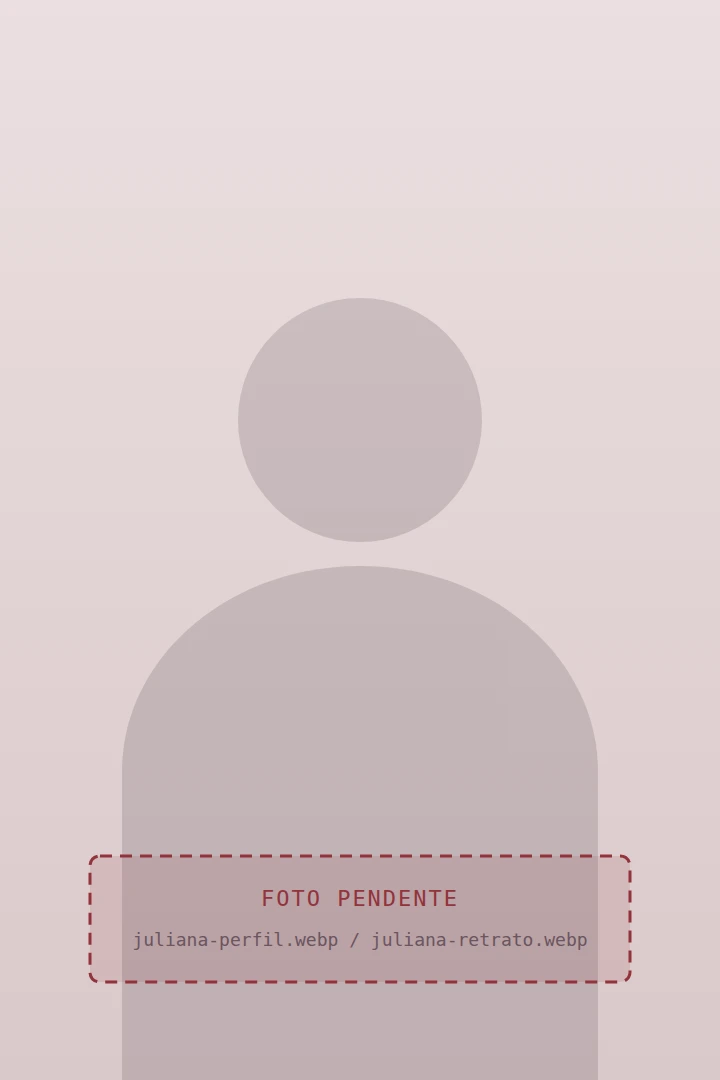
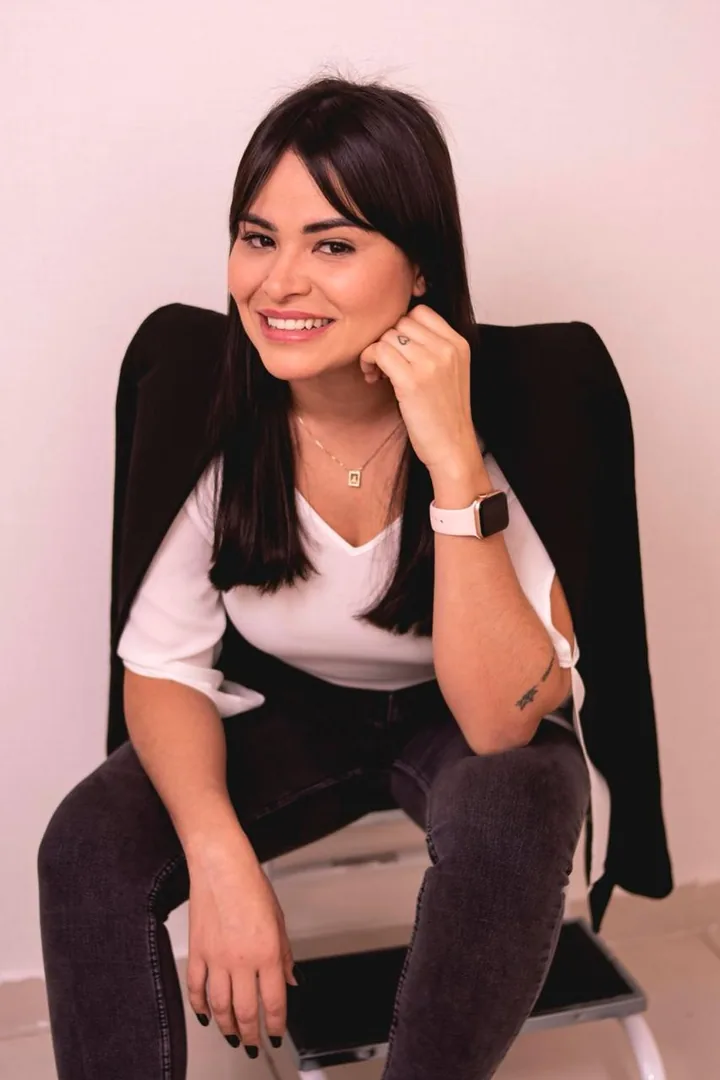
Substitui as imagens placeholder pelas fotos reais
Capa do e-book no hero, foto da Juliana com as filhas na seção
"O que tem dentro" (recorte 4:5, para não cortar as meninas), retrato
na seção "Quem escreveu" e recorte largo da foto em família como
preview de compartilhamento (og:image). Todas em WebP, no tamanho em
que a página exibe.

O README deixa de listar as imagens como pendência e documenta os
tamanhos atuais.

Claude-Session: https://claude.ai/code/session_01BEaBxMpb5xnvFpbaSUCbPb

diff --git a/site/index.html b/site/index.html
@@ -289,9 +289,9 @@ footer a{color:#C9AEB4}
     <p class="nota rev">Mais a abertura e o capítulo de fechamento — dez ao todo. Material educativo: não substitui a avaliação do seu médico ou da sua equipe de saúde.</p>
    </div>
    <figure class="fig-perfil rev">
-     <img src="/juliana-perfil.webp" width="720" height="1080" loading="lazy"
+     <img src="/juliana-perfil.webp" width="720" height="900" loading="lazy"
           onerror="this.onerror=null;this.src='/placeholder-retrato.svg'"
-          alt="Juliana Martins, autora do manual" >
+          alt="Juliana Martins com as duas filhas no colo, num campo de girassóis ao pôr do sol">
      <figcaption>Escrito por quem também já esteve às três da manhã</figcaption>
    </figure>
   </div>

diff --git a/README.md b/README.md
@@ -19,11 +19,11 @@ site/                      raiz pública
   404.html
   config.js                ⚠ URL da API de leads — editar aqui
   robots.txt  sitemap.xml  favicon.svg
-  capa-mae-nao-vem-com-manual.webp   ⚠ placeholder
-  juliana-perfil.webp                ⚠ placeholder
-  juliana-retrato.webp               ⚠ placeholder
-  juliana-og.webp                    ⚠ placeholder (preview em links)
-  placeholder-*.svg        fallback caso um .webp suma
+  capa-mae-nao-vem-com-manual.webp   capa do e-book (topo da página)
+  juliana-perfil.webp                foto com as filhas (seção “O que tem dentro”)
+  juliana-retrato.webp               retrato (seção “Quem escreveu”)
+  juliana-og.webp                    preview ao compartilhar o link
+  placeholder-*.svg        fallback caso um .webp falhe ao carregar
 ```
 
 ---
@@ -73,7 +73,7 @@ segurança e a política de cache. O Dockerfile é o caminho recomendado.
 
 ---
 
-## Antes de mandar tráfego: 3 pendências
+## Antes de mandar tráfego: 2 pendências
 
 ### 1. `site/config.js` — os leads não estão sendo salvos
 
@@ -107,22 +107,7 @@ A API precisa responder `2xx` e liberar CORS para `https://maternidadesemculpa.c
 `config.js` é servido com `no-store`, então basta editar, commitar e
 redeployar — não é preciso mexer no `index.html`.
 
-### 2. Imagens
-
-Os quatro `.webp` em `site/` são **placeholders gerados**, não as fotos reais.
-Substitua mantendo exatamente os mesmos nomes e proporções:
-
-| Arquivo                            | Tamanho    | O que é                       |
-|------------------------------------|------------|-------------------------------|
-| `capa-mae-nao-vem-com-manual.webp` | 760×1216   | capa do e-book                |
-| `juliana-perfil.webp`              | 720×1080   | foto na seção “O que tem dentro” |
-| `juliana-retrato.webp`             | 720×1080   | retrato na seção “Quem escreveu” |
-| `juliana-og.webp`                  | 1200×630   | preview ao compartilhar o link |
-
-Cache das imagens é de 7 dias — a troca aparece rápido, mas peça um
-*hard refresh* se estiver vendo a versão antiga.
-
-### 3. Política de privacidade
+### 2. Política de privacidade
 
 `site/politica-de-privacidade.html`, seção 1, tem três campos em branco:
 nome/razão social do controlador, CPF/CNPJ e e-mail de privacidade. A LGPD
@@ -142,6 +127,25 @@ A pedido, a página foi publicada com os blocos de rascunho à mostra
 
 Para tirar uma dessas caixas do ar, remova a classe `ph` e o atributo
 `data-ph` do elemento correspondente em `site/index.html`.
+
+---
+
+## Imagens
+
+Os quatro `.webp` em `site/` são as fotos reais, já recortadas e comprimidas
+no tamanho em que a página as exibe. Para trocar alguma, mantenha o nome e a
+proporção:
+
+| Arquivo                            | Tamanho  | Onde aparece                              |
+|------------------------------------|----------|-------------------------------------------|
+| `capa-mae-nao-vem-com-manual.webp` | 760×1216 | capa do e-book, no topo                   |
+| `juliana-perfil.webp`              | 720×900  | foto com as filhas, em “O que tem dentro” |
+| `juliana-retrato.webp`             | 720×1080 | retrato, em “Quem escreveu”               |
+| `juliana-og.webp`                  | 1200×630 | preview ao compartilhar o link            |
+
+Cache das imagens é de 7 dias — a troca aparece rápido, mas peça um
+*hard refresh* se estiver vendo a versão antiga. Os `placeholder-*.svg`
+continuam no repositório só como fallback, caso um `.webp` falhe ao carregar.
 
 ---
 
